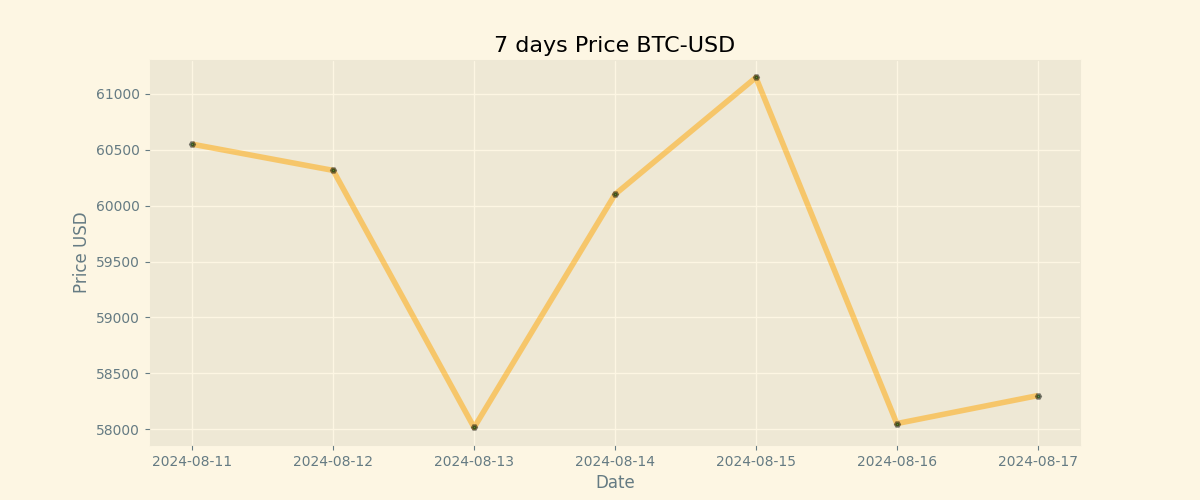
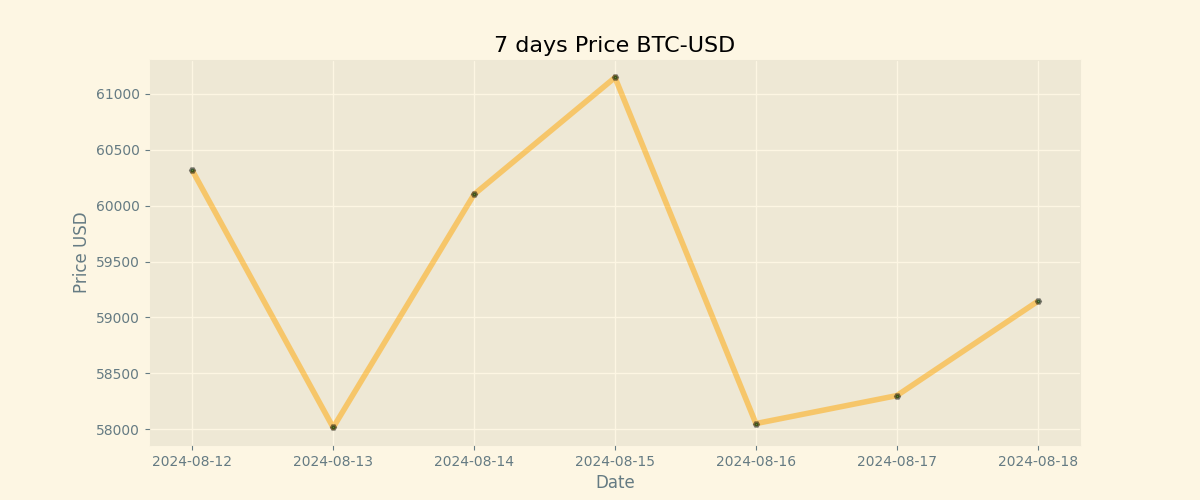
Duty Updates 2024-08-18

diff --git a/README.md b/README.md
@@ -9,7 +9,7 @@
 
 | Currency | Price           |
 | -------- | --------------- |
-| **BTC**  | **$ 58301.0** |
+| **BTC**  | **$ 59144.44** |
 | **ETH**  | **$ 2625.23** |
 
 ## BTC chart
